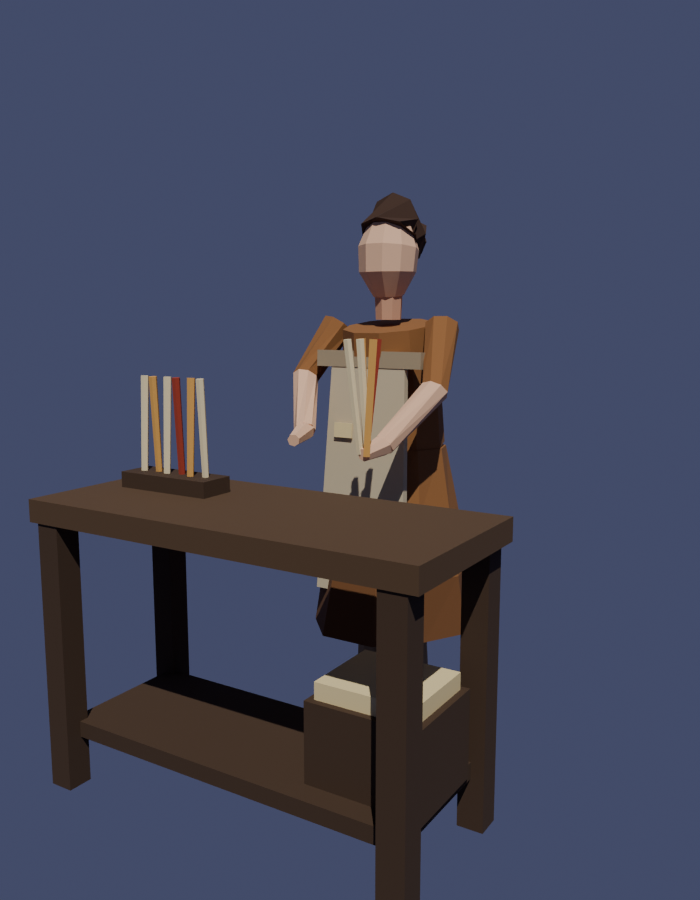
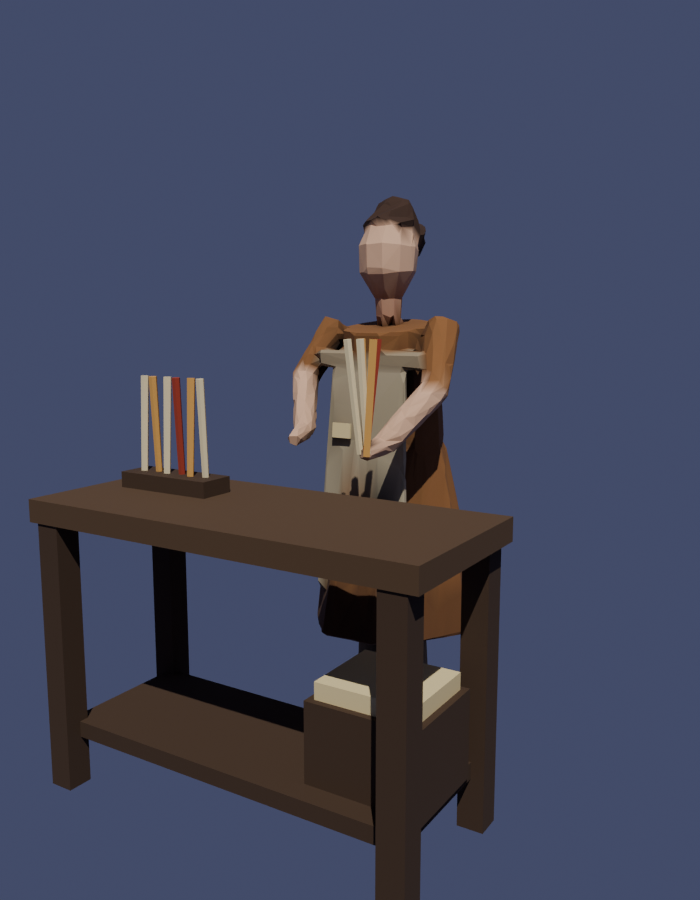
NPC sculpt: Dunna Wex rebuilt with the hybrid pipeline
- the chandler's design preview is no longer assembled from discrete kit
  primitives: her tapered forms are joined and fused into one continuous
  mesh with a voxel remesh (SDF-style union), so neck, shoulders, hair and
  skirt read as one sculpted skin with no primitive seams
- code-driven sculpt pass, deterministic and reproducible: skirt pleats
  re-cut radially, procedural clay breakup, low-factor polish smoothing
- decimated to a period budget (2,998 tris total vs 984 for the assembled
  build) and self-occlusion baked into the vertex colours with Cycles
- same pose, palette, tapers prop and stall; side-by-side preview in
  tools/assets/_preview-dunna-wex-compare.png

Changed region(s): [[0.39, 0.2178, 0.66, 0.56], [0.45, 0.6222, 0.48, 0.7156]]

diff --git a/tools/assets/dunna-wex.py b/tools/assets/dunna-wex.py
@@ -6,15 +6,26 @@
 # flavour: a vendor figure — the kind of role a playable Emberwatch would buy
 # from and hear gossip from.
 #
-# Built on _kit's tube() so every limb tapers PS2-meshy: upper arm wider than
-# forearm, calves narrowing to the ankle, hands tapering past the wrist. No
-# constant-cross-section box limbs anywhere on the figure.
+# HYBRID BUILD (the sculpted-character pipeline, first used here):
+# the figure is no longer assembled from discrete kit primitives. The same
+# tapered forms the old script placed (same pose, same palette) are built as
+# separate coloured parts, joined, and fused into ONE continuous mesh with a
+# voxel remesh — an SDF-style union: shoulders melt into the torso, the neck
+# into the jaw, the hair into the head, no primitive seams anywhere. A
+# code-driven sculpt pass follows (deterministic, seeded — no hand work, so
+# the script alone reproduces the figure): skirt pleats are re-cut radially,
+# a procedural clay breakup roughens the surface, a polish pass smooths it
+# back the way a sculptor's rake would. The result is decimated to a period
+# poly budget and its self-occlusion is baked into the vertex colours with
+# Cycles, so the folds and armpits carry their own shading. The stall,
+# tapers and wax stains stay kit-built — furniture never needed sculpting.
 #
 #   ~/workspace/blender/blender-4.5.14-linux-x64/blender --background \
 #     --python tools/assets/dunna-wex.py
 import sys, os, math
 sys.path.insert(0, os.path.dirname(os.path.abspath(__file__)))
-from _kit import Asset
+from _kit import Asset, g2b
+import bpy
 
 SKIN   = (.90, .72, .58)
 SKIN_D = (.80, .60, .47)
@@ -32,75 +43,266 @@ CREAM  = (.93, .86, .68)
 AMBER  = (.86, .64, .32)
 MADDER = (.62, .22, .14)
 
-a = Asset('dunna-wex', seed=20261015)
+SEED = 20261015
+VOXEL = 0.02          # remesh resolution: the union's "clay" grain
+TARGET_TRIS = 3000    # whole asset, stall included — period budget
 
-# ---- legs & shoes (mostly under the dress hem) ------------------------------
-for sx in (-1, 1):
-    x = sx * .095
-    a.box(.11, .09, .24, x, .045, .03, SHOE, taper=1.1)          # shoe
-    a.tube([(x, .09, 0), (x, .25, .005), (x, .42, .01)],        # calf, tapering
-           [.052, .045, .038], STOCK, sides=8)
+bpy.ops.wm.read_factory_settings(use_empty=True)
 
-# ---- dress: flared, pleated skirt --------------------------------------------
-a.tube([(0, .98, 0), (0, .76, .008), (0, .54, .014), (0, .34, .02)],
-       [.185, .225, .265, .30], [DRESS, DRESS, DRESS_D],
-       sides=10, folds=7, amps=[0, .05, .07, .09])
 
-# ---- torso, leaning a touch over the counter ---------------------------------
-a.tube([(0, .98, 0), (0, 1.20, .02), (0, 1.40, .05)],
-       [.180, .172, .158], DRESS, sides=10)
+def part(name, fn):
+    """Build one coloured body part with the kit, as its own object."""
+    pa = Asset(name, seed=SEED)
+    fn(pa)
+    return pa.build()
 
-# ---- apron: bib panel, waistband, a wax stain --------------------------------
-a.box(.34, .82, .028, 0, .90, .205, APRON, rx=-.07, taper=.82)
-a.box(.40, .055, .035, 0, 1.29, .175, APRON_D, rx=-.05)
-a.box(.10, .15, .006, .07, .72, .222, WAX, rx=-.07)              # wax splash
-a.box(.07, .05, .006, -.08, 1.05, .215, WAX, rx=-.07)
 
-# ---- neck & head --------------------------------------------------------------
-a.cyl(.045, .050, .10, 0, 1.47, .05, SKIN_D, sides=8)
-a.tube([(0, 1.50, .05), (0, 1.58, .058), (0, 1.66, .052),
-        (0, 1.73, .042), (0, 1.775, .035)],
-       [.052, .098, .104, .078, .028], SKIN, sides=10)
+def tris_of(obj):
+    return sum(len(p.vertices) - 2 for p in obj.data.polygons)
 
-# ---- hair: mass over the back of the head + a bun -----------------------------
-a.tube([(0, 1.70, .05), (0, 1.755, .015), (0, 1.71, -.035), (0, 1.63, -.055)],
-       [.104, .092, .096, .062], HAIR, sides=8)
-a.tube([(0, 1.695, -.055), (0, 1.69, -.115), (0, 1.685, -.155)],
-       [.052, .058, .030], HAIR, sides=8)
 
-# ---- arms, tend-wares: forward over the counter --------------------------------
-# right arm ends holding the taper bundle; left hand stays open, arranging.
-a.tube([(.205, 1.40, .05), (.255, 1.20, .20), (.185, 1.045, .40)],
-       [.058, .046, .036], [DRESS, SKIN], sides=8)
-a.tube([(-.205, 1.40, .05), (-.265, 1.22, .17), (-.145, 1.06, .35)],
-       [.058, .046, .036], [DRESS, SKIN], sides=8)
-# hands taper past the wrist
-a.tube([(.185, 1.045, .40), (.185, 1.03, .52)], [.034, .020], SKIN, sides=7)
-a.tube([(-.145, 1.06, .35), (-.105, 1.045, .47)], [.034, .020], SKIN, sides=7)
+# ---- the figure's tapered forms (the old script's pose, verbatim) -----------
+def _legs(a):
+    for sx in (-1, 1):
+        x = sx * .095
+        a.box(.11, .09, .24, x, .045, .03, SHOE, taper=1.1)      # shoe
+        a.tube([(x, .09, 0), (x, .25, .005), (x, .42, .01)],    # calf, tapering
+               [.052, .045, .038], STOCK, sides=8)
 
-# ---- the taper bundle in her right hand ----------------------------------------
+
+def _skirt(a):
+    a.tube([(0, .98, 0), (0, .76, .008), (0, .54, .014), (0, .34, .02)],
+           [.185, .225, .265, .30], [DRESS, DRESS, DRESS_D],
+           sides=10, folds=7, amps=[0, .05, .07, .09])
+
+
+def _torso(a):
+    a.tube([(0, .98, 0), (0, 1.20, .02), (0, 1.40, .05)],
+           [.180, .172, .158], DRESS, sides=10)
+    # apron: bib panel + waistband — cloth masses, unioned with the dress
+    a.box(.34, .82, .028, 0, .90, .205, APRON, rx=-.07, taper=.82)
+    a.box(.40, .055, .035, 0, 1.29, .175, APRON_D, rx=-.05)
+
+
+def _head(a):
+    a.cyl(.045, .050, .10, 0, 1.47, .05, SKIN_D, sides=8)         # neck
+    a.tube([(0, 1.50, .05), (0, 1.58, .058), (0, 1.66, .052),
+            (0, 1.73, .042), (0, 1.775, .035)],
+           [.052, .098, .104, .078, .028], SKIN, sides=10)
+    # hair: mass over the back of the head + a bun
+    a.tube([(0, 1.70, .05), (0, 1.755, .015), (0, 1.71, -.035), (0, 1.63, -.055)],
+           [.104, .092, .096, .062], HAIR, sides=8)
+    a.tube([(0, 1.695, -.055), (0, 1.69, -.115), (0, 1.685, -.155)],
+           [.052, .058, .030], HAIR, sides=8)
+
+
+def _arms(a):
+    # tend-wares: forward over the counter. Right hand holds the taper
+    # bundle; left hand stays open, arranging.
+    a.tube([(.205, 1.40, .05), (.255, 1.20, .20), (.185, 1.045, .40)],
+           [.062, .050, .040], [DRESS, SKIN], sides=8)
+    a.tube([(-.205, 1.40, .05), (-.265, 1.22, .17), (-.145, 1.06, .35)],
+           [.062, .050, .040], [DRESS, SKIN], sides=8)
+    a.tube([(.185, 1.045, .40), (.185, 1.03, .52)], [.036, .022], SKIN, sides=7)
+    a.tube([(-.145, 1.06, .35), (-.105, 1.045, .47)], [.036, .022], SKIN, sides=7)
+
+
+parts = [part('dw-legs', _legs), part('dw-skirt', _skirt),
+         part('dw-torso', _torso), part('dw-head', _head),
+         part('dw-arms', _arms)]
+
+# ---- join the parts: the colour + shape source -------------------------------
+bpy.ops.object.select_all(action='DESELECT')
+for o in parts:
+    o.select_set(True)
+bpy.context.view_layer.objects.active = parts[0]
+bpy.ops.object.join()
+src = bpy.context.view_layer.objects.active
+src.name = 'dw-src'
+print('HYBRID src tris=%d' % tris_of(src))
+
+# ---- SDF-style union: voxel remesh the joined forms into one skin ------------
+body = src.copy()
+body.data = src.data.copy()
+body.name = 'dw-body'
+bpy.context.collection.objects.link(body)
+body.data.remesh_mode = 'VOXEL'
+body.data.remesh_voxel_size = VOXEL
+body.data.use_remesh_preserve_volume = True
+bpy.ops.object.select_all(action='DESELECT')
+body.select_set(True)
+bpy.context.view_layer.objects.active = body
+bpy.ops.object.voxel_remesh()
+print('HYBRID remeshed tris=%d' % tris_of(body))
+
+# paint the union from the parts: nearest-face colour transfer
+dt = body.modifiers.new('dt', 'DATA_TRANSFER')
+dt.object = src
+dt.use_loop_data = True
+dt.data_types_loops = {'COLOR_CORNER'}
+dt.loop_mapping = 'NEAREST_POLY'
+bpy.ops.object.modifier_apply(modifier=dt.name)
+bpy.data.objects.remove(src, do_unlink=True)
+
+# ---- ZBrush-style pass, in code: pleats, clay breakup, polish -----------------
+# Re-cut the skirt pleats the remesh softened: radial displacement, seven
+# folds plus a finer harmonic, bellied between hem and waist (game axes:
+# blender (x, -z, y), so game height is blender z, game front is -y).
+me = body.data
+for v in me.vertices:
+    gy = v.co.z
+    if 0.30 <= gy <= 1.03:
+        th = math.atan2(-v.co.y, v.co.x)
+        fall = math.sin(math.pi * (gy - 0.30) / 0.73) ** 0.7
+        d = (0.011 * math.sin(7 * th + 0.6) + 0.004 * math.sin(14 * th + 1.7)) * fall
+        v.co.x += math.cos(th) * d
+        v.co.y += -math.sin(th) * d
+me.update()
+
+# surface breakup: a whisper of procedural clay noise, so no surface is
+# mathematically perfect (Blender's noise is a fixed function — same every run)
+tex = bpy.data.textures.new('dw-clay', type='CLOUDS')
+tex.noise_scale = 0.12
+tex.noise_depth = 2
+disp = body.modifiers.new('clay', 'DISPLACE')
+disp.texture = tex
+disp.texture_coords = 'GLOBAL'
+disp.direction = 'NORMAL'
+disp.strength = 0.0025
+disp.mid_level = 0.5
+bpy.ops.object.modifier_apply(modifier=disp.name)
+
+# polish: low-factor smoothing iterations — the sculptor's rake
+pol = body.modifiers.new('polish', 'SMOOTH')
+pol.factor = 0.35
+pol.iterations = 2
+bpy.ops.object.modifier_apply(modifier=pol.name)
+print('HYBRID sculpted tris=%d' % tris_of(body))
+
+# ---- the stall, the tapers, the stains: kit-built, as before ------------------
+p = Asset('dunna-props', seed=SEED)
+# wax stains sit proud of the (now slightly moved) apron face
+p.box(.10, .15, .008, .07, .72, .232, WAX, rx=-.07)
+p.box(.07, .05, .008, -.08, 1.05, .225, WAX, rx=-.07)
+# the taper bundle in her right hand
 for k, (dx, dz, col, tilt) in enumerate([
         (0, 0, CREAM, .06), (.028, .012, AMBER, -.05),
         (-.028, .010, CREAM, .10), (.012, -.026, MADDER, -.09),
         (-.014, -.024, AMBER, .04)]):
-    a.cyl(.011, .013, .34, .185 + dx, 1.20, .52 + dz, col,
+    p.cyl(.011, .013, .34, .185 + dx, 1.20, .52 + dz, col,
           sides=6, rx=tilt, rz=tilt * .7)
-
-# ---- her stall counter ----------------------------------------------------------
-a.box(1.30, .07, .55, 0, .865, .78, TIMBER)                       # counter top
+# her stall counter
+p.box(1.30, .07, .55, 0, .865, .78, TIMBER)                       # counter top
 for sx in (-1, 1):
     for sz in (0, 1):
-        a.box(.08, .83, .08, sx * .58, .415, .55 + sz * .46, TIMBER_D)
-a.box(1.16, .05, .44, 0, .18, .78, TIMBER_D)                      # low shelf
+        p.box(.08, .83, .08, sx * .58, .415, .55 + sz * .46, TIMBER_D)
+p.box(1.16, .05, .44, 0, .18, .78, TIMBER_D)                      # low shelf
 # a rack of finished tapers on the counter
-a.box(.34, .05, .12, -.38, .925, .72, TIMBER_D)
+p.box(.34, .05, .12, -.38, .925, .72, TIMBER_D)
 for k, col in enumerate([CREAM, AMBER, CREAM, MADDER, AMBER, CREAM]):
-    a.cyl(.011, .013, .30, -.50 + k * .048, 1.10, .72, col, sides=6,
+    p.cyl(.011, .013, .30, -.50 + k * .048, 1.10, .72, col, sides=6,
           rx=.05 * (1 if k % 2 else -1))
 # a crate of tallow blocks under the counter
-a.box(.34, .26, .30, .42, .31, .78, TIMBER_D)
-a.box(.30, .05, .26, .42, .465, .78, WAX)
+p.box(.34, .26, .30, .42, .31, .78, TIMBER_D)
+p.box(.30, .05, .26, .42, .465, .78, WAX)
+props = p.build()
+props.name = 'dw-props'
+prop_tris = tris_of(props)
+print('HYBRID props tris=%d' % prop_tris)
 
-a.finish(cam_at=(1.5, 1.45, 2.7), cam_look=(0, 1.0, 0.3), res=(700, 900),
-         lens=35, sun=(35, 0, 35),
-         extra_views=(('back', (-1.5, 1.45, -2.7), (0, 1.0, 0.1)),))
+# ---- decimate the sculpted body to the period budget ---------------------------
+body_tris = tris_of(body)
+ratio = max(0.02, min(1.0, (TARGET_TRIS - prop_tris) / body_tris))
+dec = body.modifiers.new('dec', 'DECIMATE')
+dec.ratio = ratio
+bpy.ops.object.select_all(action='DESELECT')
+body.select_set(True)
+bpy.context.view_layer.objects.active = body
+bpy.ops.object.modifier_apply(modifier=dec.name)
+print('HYBRID decimated body tris=%d (ratio %.3f)' % (tris_of(body), ratio))
+
+# ---- bake the sculpt's occlusion into the vertex colours (Cycles) -------------
+scene = bpy.context.scene
+scene.render.engine = 'CYCLES'
+scene.cycles.device = 'CPU'
+scene.cycles.samples = 48
+scene.cycles.seed = SEED
+scene.cycles.bake_type = 'AO'
+scene.render.bake.target = 'VERTEX_COLORS'
+scene.render.bake.use_selected_to_active = False
+scene.render.bake.margin = 2
+ao = me.color_attributes.new('AO', 'FLOAT_COLOR', 'CORNER')
+for d in ao.data:
+    d.color = (1.0, 1.0, 1.0, 1.0)
+me.color_attributes.active_color = ao
+bpy.ops.object.select_all(action='DESELECT')
+body.select_set(True)
+bpy.context.view_layer.objects.active = body
+bpy.ops.object.bake(type='AO')
+base = me.color_attributes.get('Col')
+for i, d in enumerate(base.data):
+    a = ao.data[i].color[0] ** 0.85
+    d.color = (d.color[0] * a, d.color[1] * a, d.color[2] * a, d.color[3])
+me.color_attributes.remove(ao)
+me.color_attributes.active_color = base
+print('HYBRID AO baked: min=%.3f max=%.3f' % (
+    min(d.color[0] for d in base.data), max(d.color[0] for d in base.data)))
+
+# ---- join body + stall, then preview + export exactly as _kit.finish does -----
+bpy.ops.object.select_all(action='DESELECT')
+body.select_set(True)
+props.select_set(True)
+bpy.context.view_layer.objects.active = body
+bpy.ops.object.join()
+obj = bpy.context.view_layer.objects.active
+obj.name = 'dunna-wex'
+obj.data.name = 'dunna-wex'
+
+scene.cycles.samples = 24
+mat = bpy.data.materials.new('preview')
+mat.use_nodes = True
+nt = mat.node_tree
+bsdf = nt.nodes.get('Principled BSDF')
+attr = nt.nodes.new('ShaderNodeVertexColor')
+attr.layer_name = 'Col'
+nt.links.new(attr.outputs['Color'], bsdf.inputs['Base Color'])
+bsdf.inputs['Roughness'].default_value = .9
+obj.data.materials.append(mat)
+world = bpy.data.worlds.new('w')
+scene.world = world
+world.use_nodes = True
+world.node_tree.nodes['Background'].inputs['Color'].default_value = (0.04, 0.045, 0.09, 1)
+world.node_tree.nodes['Background'].inputs['Strength'].default_value = 1.6
+s = bpy.data.objects.new('sun', bpy.data.lights.new('sun', type='SUN'))
+s.data.energy = 3.4
+s.rotation_euler = tuple(math.radians(a) for a in (35, 0, 35))
+bpy.context.collection.objects.link(s)
+cam = bpy.data.objects.new('cam', bpy.data.cameras.new('cam'))
+cam.data.lens = 35
+bpy.context.collection.objects.link(cam)
+scene.camera = cam
+scene.render.resolution_x, scene.render.resolution_y = 700, 900
+HERE = os.path.dirname(os.path.abspath(__file__))
+ROOT = os.path.normpath(os.path.join(HERE, '..', '..'))
+previews = []
+for suffix, at, look in (('', (1.5, 1.45, 2.7), (0, 1.0, 0.3)),
+                         ('-back', (-1.5, 1.45, -2.7), (0, 1.0, 0.1))):
+    cam.location = g2b(at)
+    cam.rotation_euler = (g2b(look) - g2b(at)).to_track_quat('-Z', 'Y').to_euler()
+    path = os.path.join(HERE, '_preview-dunna-wex' + suffix + '.png')
+    scene.render.filepath = path
+    bpy.ops.render.render(write_still=True)
+    previews.append(path)
+obj.data.materials.clear()
+bpy.ops.object.select_all(action='DESELECT')
+obj.select_set(True)
+bpy.context.view_layer.objects.active = obj
+out = os.path.join(ROOT, 'assets', 'dunna-wex.glb')
+kw = dict(filepath=out, export_format='GLB', use_selection=True, export_apply=True,
+          export_materials='NONE', export_normals=False)
+try:
+    bpy.ops.export_scene.gltf(**kw, export_vertex_color='ACTIVE')
+except TypeError:
+    bpy.ops.export_scene.gltf(**kw, export_colors=True)
+print('ASSET_OK name=dunna-wex triangles=%d bytes=%d out=%s previews=%s' % (
+    tris_of(obj), os.path.getsize(out), out, ','.join(previews)))
